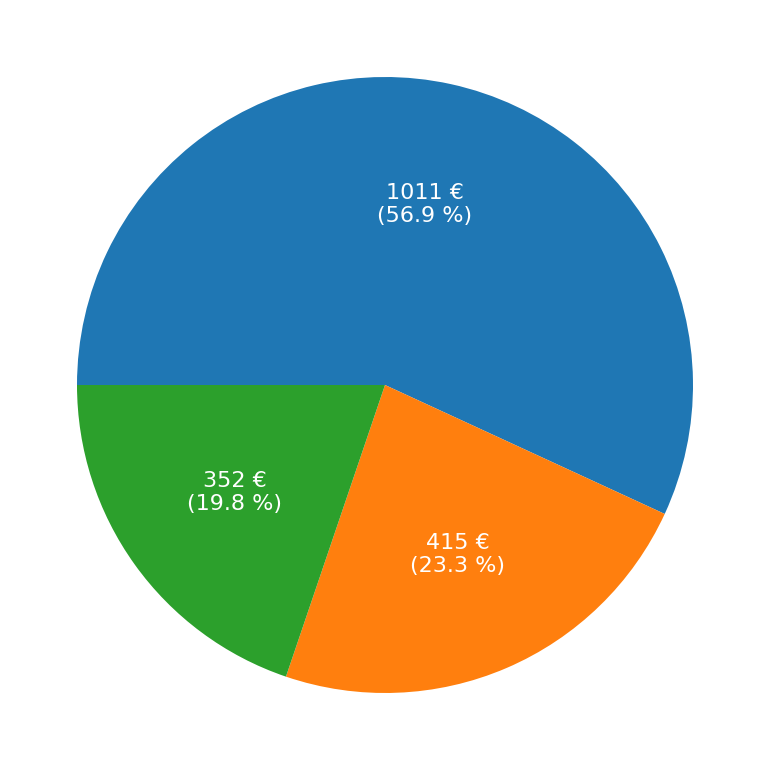
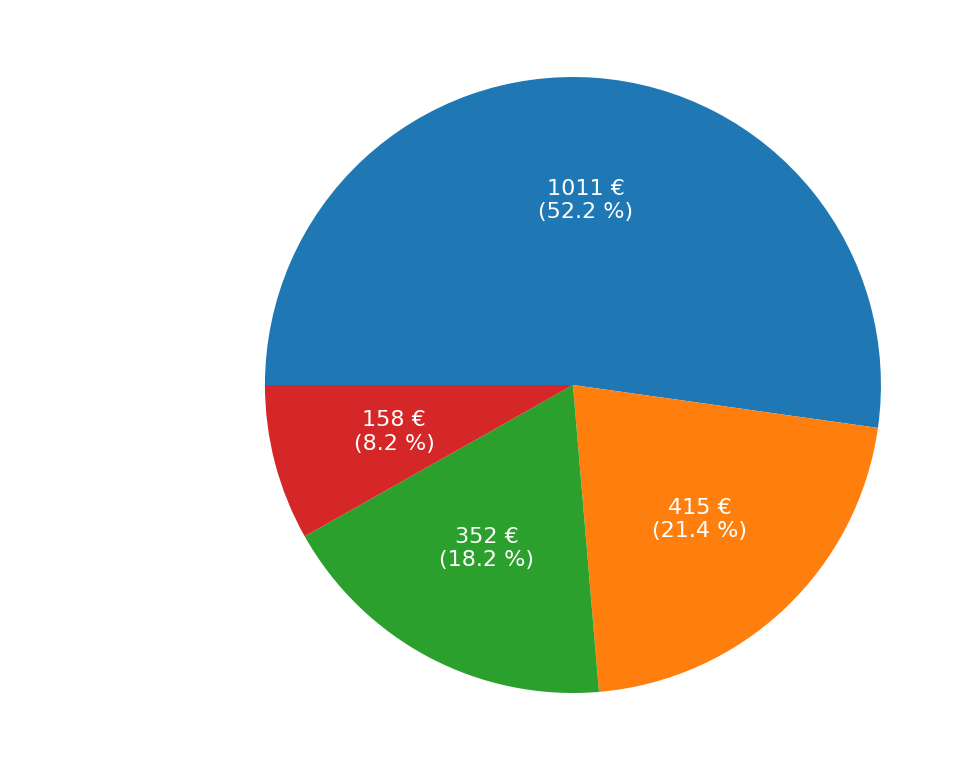
Update 11/10

Changed region(s): [[0.0936, 0.0935, 0.9363, 0.9039], [0.4993, 0.2182, 0.6554, 0.3117], [0.6866, 0.6545, 0.7802, 0.7169]]

diff --git a/page_compte.html b/page_compte.html
@@ -98,25 +98,19 @@
       <td>02/10/2022</td>
       <td>Vente Pâtes</td>
       <td><a href="subpage_4.html">Tchatche</a></td>
-      <td style="color:#34FF27"">7.50 €</td>
+      <td style="color:#34FF27"">8.00 €</td>
     </tr>
     <tr>
       <td>02/10/2022</td>
       <td>Vente Pâtes</td>
       <td><a href="subpage_4.html">Tchatche</a></td>
-      <td style="color:#34FF27"">8.00 €</td>
+      <td style="color:#34FF27"">7.50 €</td>
     </tr>
     <tr>
       <td>04/10/2022</td>
       <td>Courses</td>
       <td><a href="subpage_4.html">Tchatche</a></td>
       <td style="color:#FA413B"">-9.47 €</td>
-    </tr>
-    <tr>
-      <td>05/10/2022</td>
-      <td>Dépôt Cash Banque</td>
-      <td></td>
-      <td style="color:#34FF27"">430.00 €</td>
     </tr>
     <tr>
       <td>05/10/2022</td>
@@ -129,6 +123,12 @@
       <td>Vente Pâtes</td>
       <td><a href="subpage_4.html">Tchatche</a></td>
       <td style="color:#34FF27"">22.00 €</td>
+    </tr>
+    <tr>
+      <td>05/10/2022</td>
+      <td>Dépôt Cash Banque</td>
+      <td></td>
+      <td style="color:#34FF27"">430.00 €</td>
     </tr>
     <tr>
       <td>08/10/2022</td>
@@ -155,10 +155,22 @@
       <td style="color:#34FF27"">10.00 €</td>
     </tr>
     <tr>
+      <td>10/10/2022</td>
+      <td>Vente Assiettes</td>
+      <td><a href="subpage_0.html">Apéros Souper Photos</a></td>
+      <td style="color:#34FF27"">240.00 €</td>
+    </tr>
+    <tr>
+      <td>11/10/2022</td>
+      <td>Dépôt Cash Banque</td>
+      <td></td>
+      <td style="color:#34FF27"">775.00 €</td>
+    </tr>
+    <tr>
       <td></td>
       <td>Total</td>
       <td></td>
-      <td style="color:#34FF27"">73.10 €</td>
+      <td style="color:#34FF27"">1088.10 €</td>
     </tr>
   </tbody>
 </table>

diff --git a/index.html b/index.html
@@ -9,8 +9,8 @@
 <body>
     <h1>Comptes Pis</h1>
 
-    <button onclick="location.href='page_compte.html'" type="button" class="BasicButton">Compte<br>73.10 €</button>
-    <button onclick="location.href='page_cash.html'" type="button" class="BasicButton">Cash<br>813.73 €</button>
+    <button onclick="location.href='page_compte.html'" type="button" class="BasicButton">Compte<br>1088.10 €</button>
+    <button onclick="location.href='page_cash.html'" type="button" class="BasicButton">Cash<br>38.73 €</button>
     <button onclick="location.href='page_materiel.html'" type="button" class="BasicButton">Matériel<br>435.00 €</button>
     <br><br><br><br><br>
     <p align="right">
@@ -18,7 +18,7 @@
         <button onclick="location.href='page_graphs.html'" type="button" class="CategoryButton">Graphes</button>
     </p>
     <br><br><br>
-    <button onclick="location.href='page_total.html'" type="button" class="TotalButton">Total 1321.83 €</button>
+    <button onclick="location.href='page_total.html'" type="button" class="TotalButton">Total 1561.83 €</button>
     
     
 </body>

diff --git a/page_total.html b/page_total.html
@@ -122,13 +122,13 @@
       <td>02/10/2022</td>
       <td>Vente Pâtes</td>
       <td><a href="subpage_4.html">Tchatche</a></td>
-      <td style="color:#34FF27"">7.50 €</td>
+      <td style="color:#34FF27"">8.00 €</td>
     </tr>
     <tr>
       <td>02/10/2022</td>
       <td>Vente Pâtes</td>
       <td><a href="subpage_4.html">Tchatche</a></td>
-      <td style="color:#34FF27"">8.00 €</td>
+      <td style="color:#34FF27"">7.50 €</td>
     </tr>
     <tr>
       <td>04/10/2022</td>
@@ -179,10 +179,16 @@
       <td style="color:#34FF27"">10.00 €</td>
     </tr>
     <tr>
+      <td>10/10/2022</td>
+      <td>Vente Assiettes</td>
+      <td><a href="subpage_0.html">Apéros Souper Photos</a></td>
+      <td style="color:#34FF27"">240.00 €</td>
+    </tr>
+    <tr>
       <td></td>
       <td>Total</td>
       <td></td>
-      <td style="color:#34FF27"">1321.83 €</td>
+      <td style="color:#34FF27"">1561.83 €</td>
     </tr>
   </tbody>
 </table>

diff --git a/subpage_0.html b/subpage_0.html
@@ -27,9 +27,14 @@
       <td style="color:#34FF27"">12.00 €</td>
     </tr>
     <tr>
+      <td>10/10/2022</td>
+      <td>Vente Assiettes</td>
+      <td style="color:#34FF27"">240.00 €</td>
+    </tr>
+    <tr>
       <td></td>
       <td>Recettes Totales</td>
-      <td style="color:#34FF27"">12.00 €</td>
+      <td style="color:#34FF27"">252.00 €</td>
     </tr>
     <tr>
       <td>08/10/2022</td>
@@ -54,7 +59,7 @@
     <tr>
       <td></td>
       <td>Total</td>
-      <td style="color:#FA413B"">-81.69 €</td>
+      <td style="color:#34FF27"">158.31 €</td>
     </tr>
   </tbody>
 </table>

diff --git a/page_cash.html b/page_cash.html
@@ -53,10 +53,16 @@
       <td style="color:#34FF27"">12.00 €</td>
     </tr>
     <tr>
+      <td>11/10/2022</td>
+      <td>Dépôt Cash Banque</td>
+      <td></td>
+      <td style="color:#FA413B"">-775.00 €</td>
+    </tr>
+    <tr>
       <td></td>
       <td>Total</td>
       <td></td>
-      <td style="color:#34FF27"">813.73 €</td>
+      <td style="color:#34FF27"">38.73 €</td>
     </tr>
   </tbody>
 </table>

diff --git a/page_by_activity.html b/page_by_activity.html
@@ -49,12 +49,12 @@
     <tr>
       <td>08/10/2022</td>
       <td><a href="subpage_0.html">Apéros Souper Photos</a></td>
-      <td style="color:#FA413B"">-81.69 €</td>
+      <td style="color:#34FF27"">158.31 €</td>
     </tr>
     <tr>
       <td></td>
       <td>Total</td>
-      <td style="color:#34FF27"">1321.83 €</td>
+      <td style="color:#34FF27"">1561.83 €</td>
     </tr>
   </tbody>
 </table>
